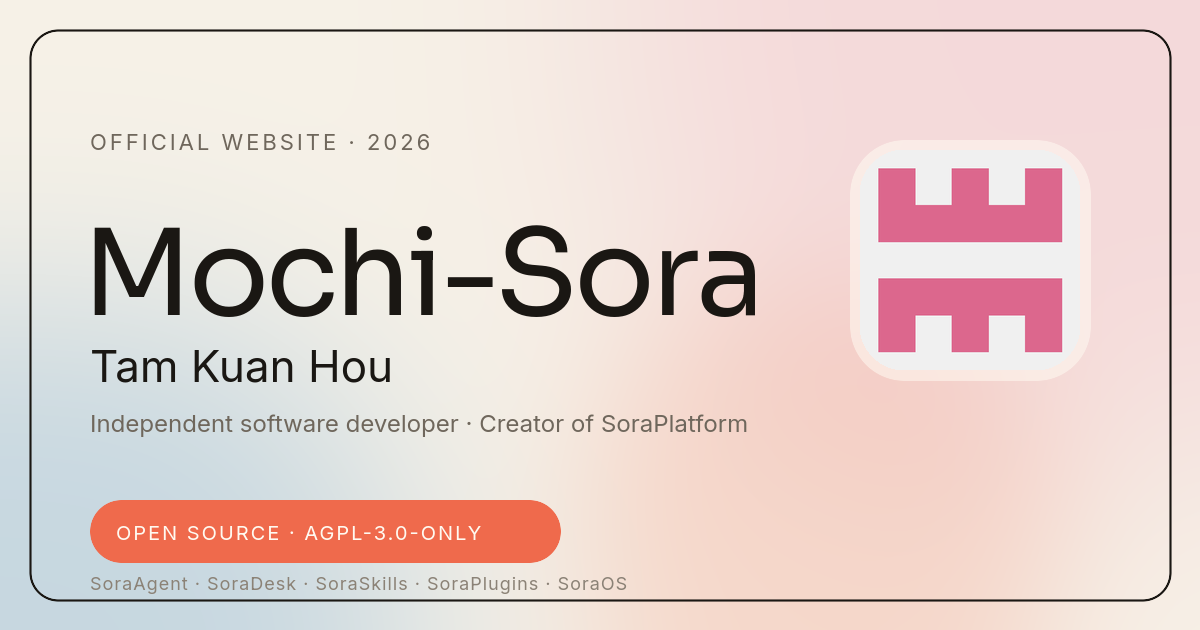
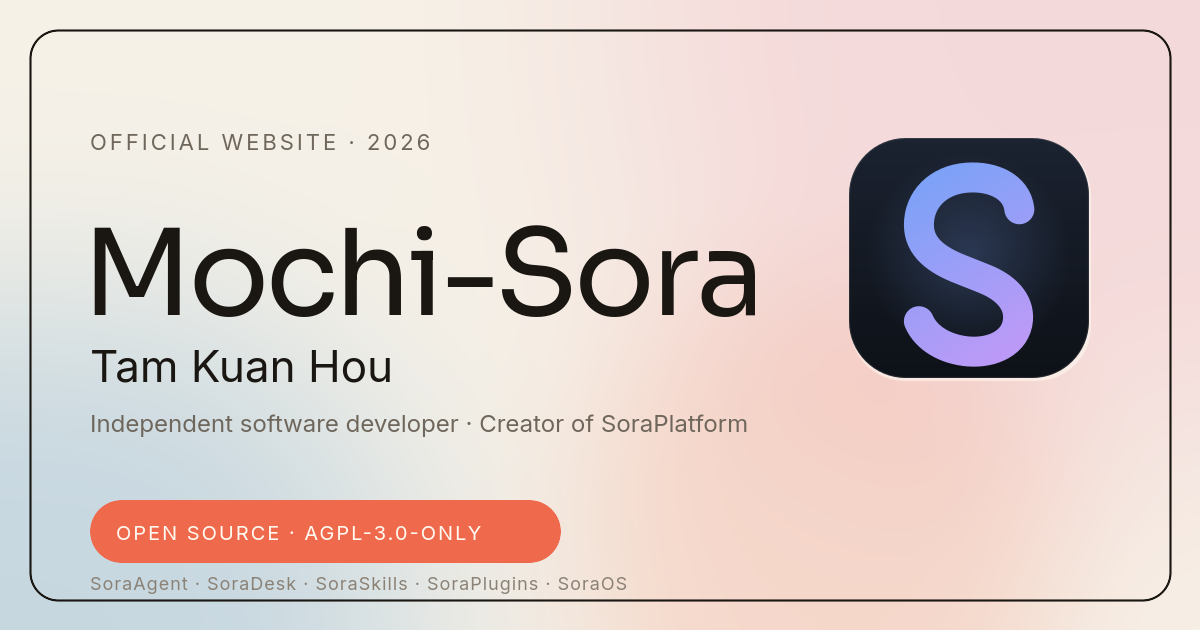
Replace the placeholder H with the SoraPlatform S mark
- use the canonical SoraAgent/SoraDesk S icon for the favicon
- refresh og-cover.png with the same mark
- version the favicon and social image URLs

Changed region(s): [[0.7092, 0.2111, 0.925, 0.6032]]

diff --git a/index.html b/index.html
@@ -13,13 +13,13 @@
   <meta property="og:site_name" content="Mochi-Sora — Official Website">
   <meta property="og:title" content="Mochi-Sora — Tam Kuan Hou | SoraPlatform, SoraAgent, SoraDesk &amp; SoraSkills">
   <meta property="og:description" content="Open-source, independent software built against telemetry and bloat. Meet SoraPlatform, the SoraAgent engine, the SoraDesk desktop client, framework-agnostic SoraSkills on Agensi, and the live benchmark scoreboard.">
-  <meta property="og:image" content="https://mochi-sora.github.io/SoraOfficialWebsite/assets/img/og-cover.png">
+  <meta property="og:image" content="https://mochi-sora.github.io/SoraOfficialWebsite/assets/img/og-cover.png?v=20261125">
   <meta name="twitter:card" content="summary_large_image">
   <meta name="twitter:title" content="Mochi-Sora — Tam Kuan Hou">
   <meta name="twitter:description" content="Open-source, independent software built against telemetry and bloat. Creator of SoraPlatform, SoraAgent, SoraDesk, and SoraSkills — with every release scored in public.">
-  <meta name="twitter:image" content="https://mochi-sora.github.io/SoraOfficialWebsite/assets/img/og-cover.png">
+  <meta name="twitter:image" content="https://mochi-sora.github.io/SoraOfficialWebsite/assets/img/og-cover.png?v=20261125">
 
-  <link rel="icon" href="assets/img/favicon.svg" type="image/svg+xml">
+  <link rel="icon" href="assets/img/favicon.svg?v=20261125" type="image/svg+xml">
   <link rel="preload" href="assets/fonts/Sora.woff2" as="font" type="font/woff2" crossorigin>
   <link rel="preload" href="assets/fonts/Inter.woff2" as="font" type="font/woff2" crossorigin>
   <link rel="preconnect" href="https://raw.githubusercontent.com" crossorigin>

diff --git a/404.html b/404.html
@@ -7,7 +7,7 @@
   <meta name="description" content="The page you are looking for does not exist. Return to the official website of Tam Kuan Hou (Mochi-Sora).">
   <meta name="robots" content="noindex">
   <meta name="theme-color" content="#f6f1e7">
-  <link rel="icon" href="assets/img/favicon.svg" type="image/svg+xml">
+  <link rel="icon" href="assets/img/favicon.svg?v=20261125" type="image/svg+xml">
   <link rel="preload" href="assets/fonts/Sora.woff2" as="font" type="font/woff2" crossorigin>
   <link rel="preload" href="assets/fonts/Inter.woff2" as="font" type="font/woff2" crossorigin>
   <link rel="stylesheet" href="assets/css/styles.css">
